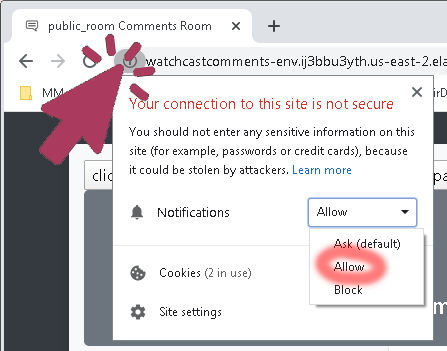
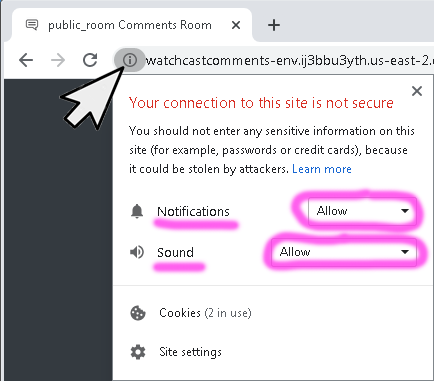
update README

diff --git a/README.md b/README.md
@@ -14,8 +14,6 @@ Comments can be added, removed and edited all being reflected in real-time in al
 
 <img src="images/enable_notifications_in_chrome.png" title="Enable Notifications in Chrome">
 
-<img src="images/always_allow_sound_in_chrome.png" title="Always allow Sound in Chrome">
-
 ## App snapshot
 
 <img src="images/react_comments_room_snapshot.png" title="React Comments Room snapshot">
